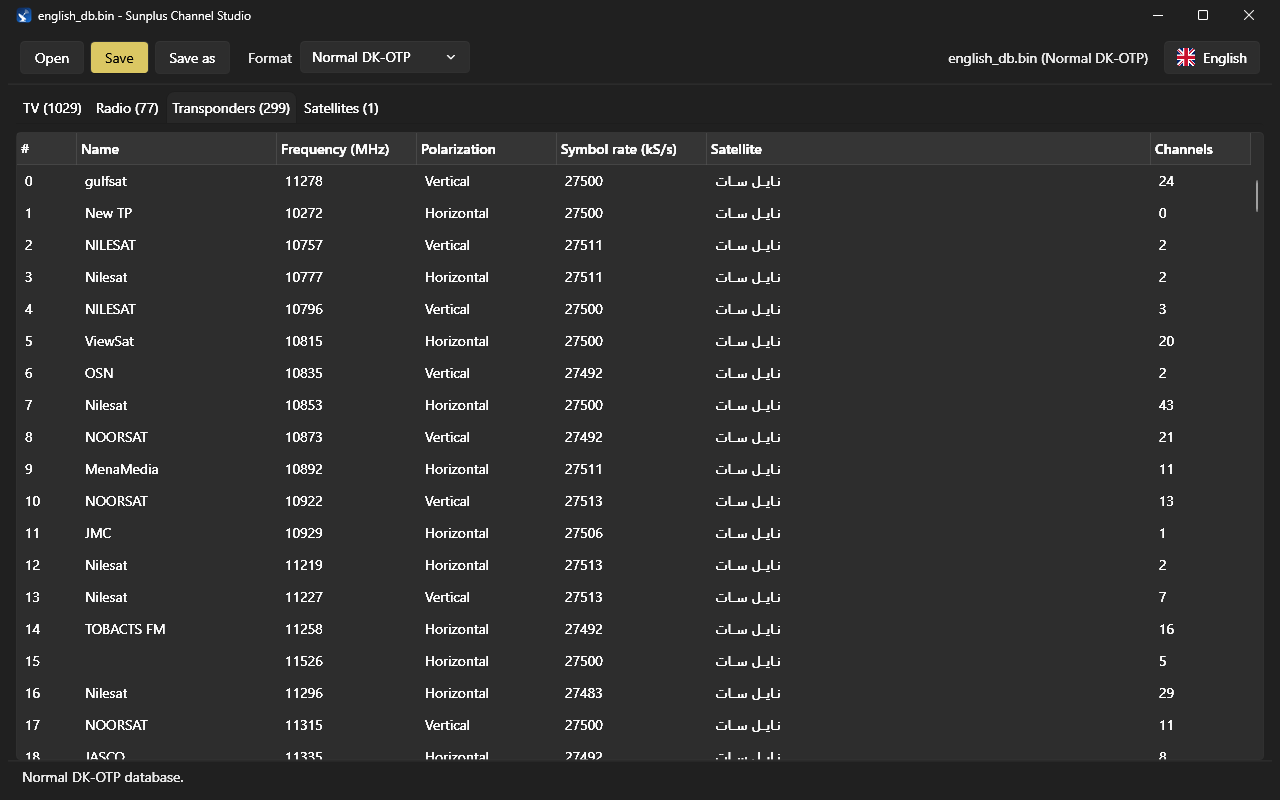
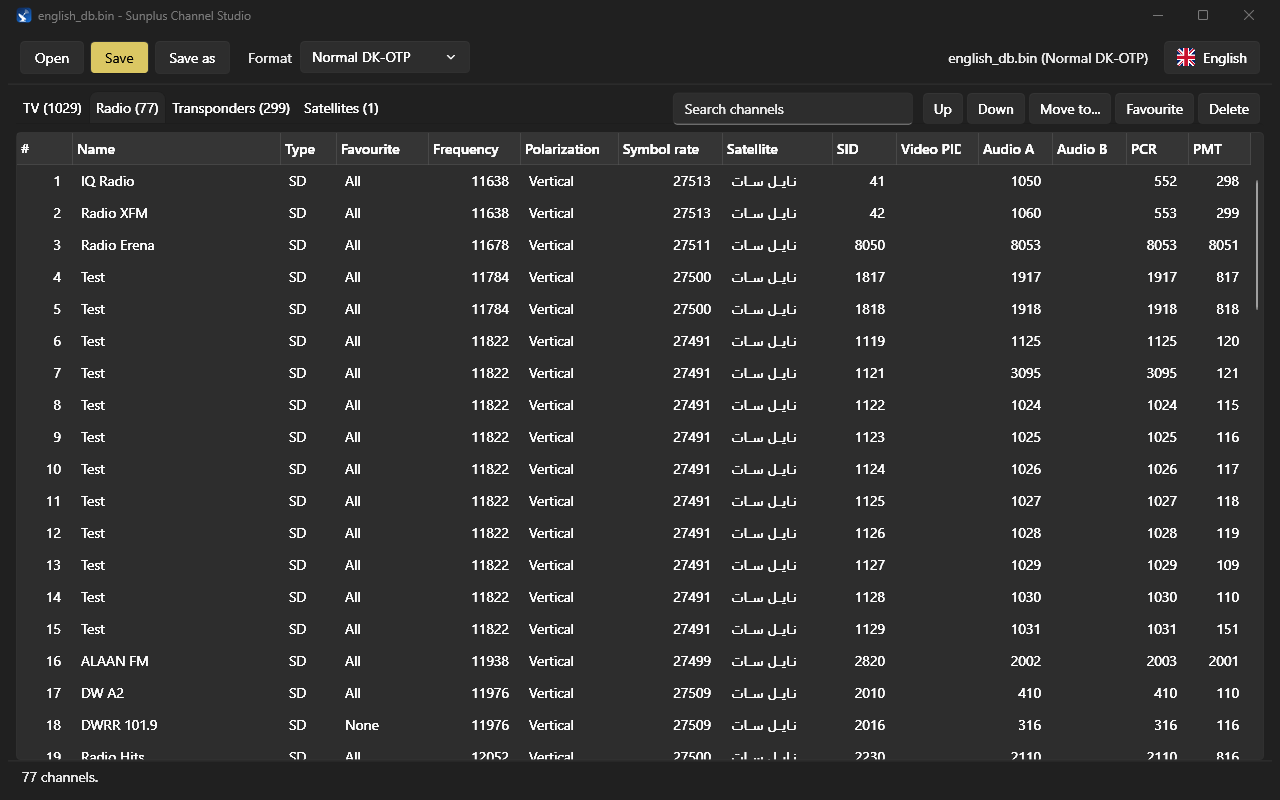
Split transponder columns, add header tooltips, fix Arabic alignment
- Channel lists show frequency, polarization and symbol rate in their own
  columns instead of one combined cell.
- Every column header explains itself on hover (PCR, PMT, SID and so on),
  in English and Arabic; units moved from headers into the tooltips.
- Number columns align to the start of the cell in Arabic instead of
  being pushed to the visual left by the mirrored layout.
- Channel names keep a minimum width so the extra columns never hide them.

diff --git a/SunplusChannelStudio/Strings/ar.xaml b/SunplusChannelStudio/Strings/ar.xaml
@@ -55,7 +55,6 @@
     <sys:String x:Key="Col.SatName">اسم القمر</sys:String>
     <sys:String x:Key="Col.Type">النوع</sys:String>
     <sys:String x:Key="Col.Favorite">المفضلة</sys:String>
-    <sys:String x:Key="Col.Transponder">الباقة</sys:String>
     <sys:String x:Key="Col.Satellite">القمر</sys:String>
     <sys:String x:Key="Col.Sid">SID</sys:String>
     <sys:String x:Key="Col.Video">Video PID</sys:String>
@@ -63,13 +62,35 @@
     <sys:String x:Key="Col.AudioB">Audio B</sys:String>
     <sys:String x:Key="Col.Pcr">PCR</sys:String>
     <sys:String x:Key="Col.Pmt">PMT</sys:String>
-    <sys:String x:Key="Col.Frequency">التردد (MHz)</sys:String>
+    <sys:String x:Key="Col.Frequency">التردد</sys:String>
     <sys:String x:Key="Col.Polarization">القطبية</sys:String>
-    <sys:String x:Key="Col.SymbolRate">معدل الترميز (kS/s)</sys:String>
+    <sys:String x:Key="Col.SymbolRate">معدل الترميز</sys:String>
     <sys:String x:Key="Col.Channels">القنوات</sys:String>
     <sys:String x:Key="Col.Position">الموقع</sys:String>
     <sys:String x:Key="Col.Lnb">LNB</sys:String>
     <sys:String x:Key="Col.Transponders">الباقات</sys:String>
+
+    <!-- Column explanations, shown when hovering a header -->
+    <sys:String x:Key="ColTip.Number">ترتيب القناة في قائمة الجهاز.</sys:String>
+    <sys:String x:Key="ColTip.Name">الاسم الذي يظهر على الجهاز. اضغط F2 لإعادة التسمية.</sys:String>
+    <sys:String x:Key="ColTip.Type">SD جودة عادية و HD جودة عالية. يظهر TR لأي قيمة أخرى يخزنها الجهاز.</sys:String>
+    <sys:String x:Key="ColTip.Favorite">مجموعة المفضلة التي تنتمي إليها القناة.</sys:String>
+    <sys:String x:Key="ColTip.Frequency">تردد الباقة بالميغاهرتز.</sys:String>
+    <sys:String x:Key="ColTip.Polarization">اتجاه إرسال الإشارة عموديًا أو أفقيًا، ويبدّل رأس الطبق (LNB) بينهما.</sys:String>
+    <sys:String x:Key="ColTip.SymbolRate">سرعة إرسال البيانات في الباقة بآلاف الرموز في الثانية.</sys:String>
+    <sys:String x:Key="ColTip.Satellite">القمر الذي تُستقبل منه القناة.</sys:String>
+    <sys:String x:Key="ColTip.Sid">رقم الخدمة: الرقم الذي يميز هذه القناة داخل الباقة.</sys:String>
+    <sys:String x:Key="ColTip.Video">رقم حزمة بث الصورة (PID).</sys:String>
+    <sys:String x:Key="ColTip.AudioA">رقم حزمة الصوت الأساسي (PID).</sys:String>
+    <sys:String x:Key="ColTip.AudioB">رقم حزمة صوت ثانٍ، غالبًا بلغة أخرى. يكون فارغًا إن لم يوجد.</sys:String>
+    <sys:String x:Key="ColTip.Pcr">مرجع ساعة البرنامج: إشارة التوقيت التي تحافظ على تزامن الصورة والصوت. غالبًا نفس رقم الصورة.</sys:String>
+    <sys:String x:Key="ColTip.Pmt">جدول خريطة البرنامج: الفهرس الذي يخبر الجهاز بمكونات بث هذه القناة.</sys:String>
+    <sys:String x:Key="ColTip.TpName">اسم الباقة، وغالبًا اسم الجهة التي تستأجرها.</sys:String>
+    <sys:String x:Key="ColTip.SatName">اسم القمر كما يظهر على الجهاز.</sys:String>
+    <sys:String x:Key="ColTip.Channels">عدد القنوات في هذه القائمة التي تستخدمها.</sys:String>
+    <sys:String x:Key="ColTip.Position">موقع القمر في المدار بالدرجات.</sys:String>
+    <sys:String x:Key="ColTip.Lnb">ترددات المذبذب المحلي في رأس الطبق (LNB) المستخدمة لاستقبال هذا القمر.</sys:String>
+    <sys:String x:Key="ColTip.Transponders">عدد الباقات في هذه القائمة التابعة لهذا القمر.</sys:String>
 
     <!-- Values -->
     <sys:String x:Key="Pol.V">عمودي</sys:String>

diff --git a/SunplusChannelStudio/Strings/en.xaml b/SunplusChannelStudio/Strings/en.xaml
@@ -53,7 +53,6 @@
     <sys:String x:Key="Col.SatName">Name</sys:String>
     <sys:String x:Key="Col.Type">Type</sys:String>
     <sys:String x:Key="Col.Favorite">Favourite</sys:String>
-    <sys:String x:Key="Col.Transponder">Transponder</sys:String>
     <sys:String x:Key="Col.Satellite">Satellite</sys:String>
     <sys:String x:Key="Col.Sid">SID</sys:String>
     <sys:String x:Key="Col.Video">Video PID</sys:String>
@@ -61,13 +60,35 @@
     <sys:String x:Key="Col.AudioB">Audio B</sys:String>
     <sys:String x:Key="Col.Pcr">PCR</sys:String>
     <sys:String x:Key="Col.Pmt">PMT</sys:String>
-    <sys:String x:Key="Col.Frequency">Frequency (MHz)</sys:String>
+    <sys:String x:Key="Col.Frequency">Frequency</sys:String>
     <sys:String x:Key="Col.Polarization">Polarization</sys:String>
-    <sys:String x:Key="Col.SymbolRate">Symbol rate (kS/s)</sys:String>
+    <sys:String x:Key="Col.SymbolRate">Symbol rate</sys:String>
     <sys:String x:Key="Col.Channels">Channels</sys:String>
     <sys:String x:Key="Col.Position">Position</sys:String>
     <sys:String x:Key="Col.Lnb">LNB</sys:String>
     <sys:String x:Key="Col.Transponders">Transponders</sys:String>
+
+    <!-- Column explanations, shown when hovering a header -->
+    <sys:String x:Key="ColTip.Number">Position of the channel in the receiver list.</sys:String>
+    <sys:String x:Key="ColTip.Name">Name shown on the receiver. Press F2 to rename.</sys:String>
+    <sys:String x:Key="ColTip.Type">SD is standard definition and HD is high definition. TR is shown for any other value the receiver stores.</sys:String>
+    <sys:String x:Key="ColTip.Favorite">The favourite group the channel belongs to.</sys:String>
+    <sys:String x:Key="ColTip.Frequency">Transponder frequency, in MHz.</sys:String>
+    <sys:String x:Key="ColTip.Polarization">Whether the signal is sent vertically or horizontally. The dish LNB switches between them.</sys:String>
+    <sys:String x:Key="ColTip.SymbolRate">How fast the transponder sends data, in thousands of symbols per second.</sys:String>
+    <sys:String x:Key="ColTip.Satellite">The satellite the channel is received from.</sys:String>
+    <sys:String x:Key="ColTip.Sid">Service ID: the number that identifies this channel inside its transponder.</sys:String>
+    <sys:String x:Key="ColTip.Video">Packet ID of the video stream.</sys:String>
+    <sys:String x:Key="ColTip.AudioA">Packet ID of the main audio track.</sys:String>
+    <sys:String x:Key="ColTip.AudioB">Packet ID of a second audio track, often another language. Empty when there is none.</sys:String>
+    <sys:String x:Key="ColTip.Pcr">Program Clock Reference: the timing signal that keeps picture and sound in sync. Usually the same as the video PID.</sys:String>
+    <sys:String x:Key="ColTip.Pmt">Program Map Table: the index that tells the receiver which streams make up this channel.</sys:String>
+    <sys:String x:Key="ColTip.TpName">Name of the transponder, often the broadcaster that rents it.</sys:String>
+    <sys:String x:Key="ColTip.SatName">Name of the satellite shown on the receiver.</sys:String>
+    <sys:String x:Key="ColTip.Channels">How many channels in this list use it.</sys:String>
+    <sys:String x:Key="ColTip.Position">Orbital position of the satellite in degrees.</sys:String>
+    <sys:String x:Key="ColTip.Lnb">Local oscillator frequencies of the dish LNB used to tune this satellite.</sys:String>
+    <sys:String x:Key="ColTip.Transponders">How many transponders in this list belong to the satellite.</sys:String>
 
     <!-- Values -->
     <sys:String x:Key="Pol.V">Vertical</sys:String>

diff --git a/SunplusChannelStudio/MainWindow.xaml.cs b/SunplusChannelStudio/MainWindow.xaml.cs
@@ -78,7 +78,7 @@ public partial class MainWindow : Window
 
     static void BuildChannelColumns(DataGrid grid)
     {
-        DataGridTextColumn Text(string header, string path, double width, bool readOnly = true, bool right = false, bool latin = false)
+        DataGridTextColumn Text(string header, string path, double width, bool readOnly = true, bool right = false)
         {
             var binding = new Binding(path);
             if (!readOnly)
@@ -93,29 +93,35 @@ public partial class MainWindow : Window
                 IsReadOnly = readOnly,
                 Width = width > 0 ? new DataGridLength(width) : new DataGridLength(1, DataGridLengthUnitType.Star),
             };
-            col.ElementStyle = CellStyle(right, latin);
+            col.ElementStyle = CellStyle(right);
+            if (right) NumericColumns.Add(col);
             return col;
         }
 
-        grid.Columns.Add(Text("Col.Number", nameof(ChannelRow.Number), 70, right: true));
-        grid.Columns.Add(Text("Col.Name", nameof(ChannelRow.Name), 0, readOnly: false));
-        grid.Columns.Add(Text("Col.Type", nameof(ChannelRow.Definition), 60));
-        grid.Columns.Add(Text("Col.Favorite", nameof(ChannelRow.Favorite), 100));
-        grid.Columns.Add(Text("Col.Transponder", nameof(ChannelRow.Frequency), 140, latin: true));
-        grid.Columns.Add(Text("Col.Satellite", nameof(ChannelRow.Satellite), 130));
-        grid.Columns.Add(Text("Col.Sid", nameof(ChannelRow.ServiceId), 70, right: true));
-        grid.Columns.Add(Text("Col.Video", nameof(ChannelRow.VideoPid), 84, right: true));
-        grid.Columns.Add(Text("Col.AudioA", nameof(ChannelRow.AudioPidA), 76, right: true));
-        grid.Columns.Add(Text("Col.AudioB", nameof(ChannelRow.AudioPidB), 76, right: true));
-        grid.Columns.Add(Text("Col.Pcr", nameof(ChannelRow.PcrPid), 70, right: true));
-        grid.Columns.Add(Text("Col.Pmt", nameof(ChannelRow.PmtPid), 70, right: true));
+        grid.Columns.Add(Text("Col.Number", nameof(ChannelRow.Number), 56, right: true));
+        var name = Text("Col.Name", nameof(ChannelRow.Name), 0, readOnly: false);
+        name.MinWidth = 200;
+        grid.Columns.Add(name);
+        grid.Columns.Add(Text("Col.Type", nameof(ChannelRow.Definition), 56));
+        grid.Columns.Add(Text("Col.Favorite", nameof(ChannelRow.Favorite), 92));
+        grid.Columns.Add(Text("Col.Frequency", nameof(ChannelRow.Frequency), 92, right: true));
+        grid.Columns.Add(Text("Col.Polarization", nameof(ChannelRow.Polarization), 98));
+        grid.Columns.Add(Text("Col.SymbolRate", nameof(ChannelRow.SymbolRate), 104, right: true));
+        grid.Columns.Add(Text("Col.Satellite", nameof(ChannelRow.Satellite), 110));
+        grid.Columns.Add(Text("Col.Sid", nameof(ChannelRow.ServiceId), 64, right: true));
+        grid.Columns.Add(Text("Col.Video", nameof(ChannelRow.VideoPid), 82, right: true));
+        grid.Columns.Add(Text("Col.AudioA", nameof(ChannelRow.AudioPidA), 74, right: true));
+        grid.Columns.Add(Text("Col.AudioB", nameof(ChannelRow.AudioPidB), 74, right: true));
+        grid.Columns.Add(Text("Col.Pcr", nameof(ChannelRow.PcrPid), 62, right: true));
+        grid.Columns.Add(Text("Col.Pmt", nameof(ChannelRow.PmtPid), 62, right: true));
     }
 
-    /// <summary>Cell text style; <paramref name="latin"/> keeps Latin-and-number text in order inside the Arabic layout.</summary>
-    static Style CellStyle(bool right, bool latin = false)
+    /// <summary>Number columns align to the end of the cell in left-to-right languages only.</summary>
+    static readonly HashSet<DataGridColumn> NumericColumns = [];
+
+    static Style CellStyle(bool right)
     {
         var style = new Style(typeof(TextBlock));
-        if (latin) style.Setters.Add(new Setter(FlowDirectionProperty, FlowDirection.LeftToRight));
         style.Setters.Add(new Setter(TextBlock.VerticalAlignmentProperty, VerticalAlignment.Center));
         style.Setters.Add(new Setter(TextBlock.MarginProperty, new Thickness(8, 0, 12, 0)));
         style.Setters.Add(new Setter(TextBlock.TextTrimmingProperty, TextTrimming.CharacterEllipsis));
@@ -646,10 +652,26 @@ public partial class MainWindow : Window
     {
         FlowDirection = Loc.Flow;
         ShowCurrentLanguage();
-        foreach (var (col, key) in _headerKeys) col.Header = Loc.Get(key);
+        foreach (var col in NumericColumns.Where(_headerKeys.ContainsKey))
+            ((DataGridTextColumn)col).ElementStyle = CellStyle(right: !Loc.IsRightToLeft);
+        foreach (var (col, key) in _headerKeys)
+        {
+            col.Header = Loc.Get(key);
+            col.HeaderStyle = HeaderStyle(Loc.Get(key.Replace("Col.", "ColTip.")));
+        }
         foreach (var r in _tv.Concat(_radio)) r.Refresh();
         foreach (var r in (TpGrid.ItemsSource as IEnumerable<Row> ?? []).Concat(SatGrid.ItemsSource as IEnumerable<Row> ?? [])) r.Refresh();
         UpdateChrome();
+    }
+
+    /// <summary>Column header style carrying an explanation as its tooltip.</summary>
+    Style HeaderStyle(string tip)
+    {
+        var style = new Style(typeof(System.Windows.Controls.Primitives.DataGridColumnHeader),
+            (Style)FindResource(typeof(System.Windows.Controls.Primitives.DataGridColumnHeader)));
+        style.Setters.Add(new Setter(ToolTipProperty, tip));
+        style.Setters.Add(new Setter(ToolTipService.InitialShowDelayProperty, 300));
+        return style;
     }
 
     MessageBoxResult Say(string text, string titleKey, MessageBoxButton buttons, MessageBoxImage icon) =>

diff --git a/SunplusChannelStudio/Rows.cs b/SunplusChannelStudio/Rows.cs
@@ -72,7 +72,9 @@ public sealed class ChannelRow(Channel channel, ChannelDatabase db) : Row
     public string Definition => Channel.Definition switch { 0 => "SD", 1 => "HD", _ => "TR" };
 
     Transponder? Tp => db.TransponderOf(Channel);
-    public string Frequency => Tp is { } tp ? $"{tp.Frequency} {(tp.Polarization == 0 ? "V" : "H")} {tp.SymbolRate}" : "?";
+    public string Frequency => Tp?.Frequency.ToString() ?? "?";
+    public string Polarization => Tp is { } tp ? Loc.Get(tp.Polarization == 0 ? "Pol.V" : "Pol.H") : "?";
+    public string SymbolRate => Tp?.SymbolRate.ToString() ?? "?";
     public string Satellite => Tp is { } tp ? db.SatelliteOf(tp)?.Name ?? "?" : "?";
 
     public ushort ServiceId => Channel.ServiceId;
